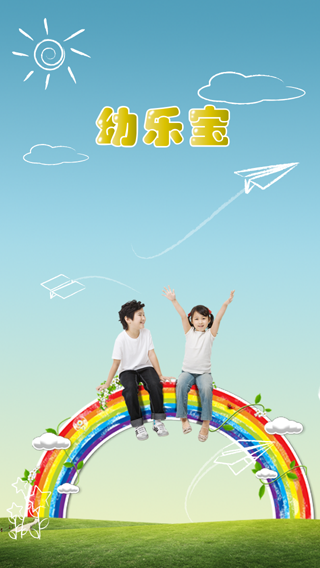
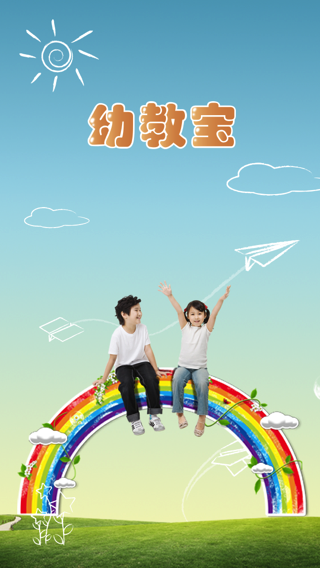
no message

diff --git a/YouJiaoBao/YouJiaoBao/Controller/CSContentEditorViewController.m b/YouJiaoBao/YouJiaoBao/Controller/CSContentEditorViewController.m
@@ -17,6 +17,8 @@
     NSInteger _lastDeleteItemIndexAsked;
 }
 
+@property (weak, nonatomic) IBOutlet UIView *viewTitle;
+@property (weak, nonatomic) IBOutlet UITextField *fieldTitle;
 @property (weak, nonatomic) IBOutlet UITextView *textContent;
 @property (weak, nonatomic) IBOutlet UIButton *btnHideKeyboard;
 @property (weak, nonatomic) IBOutlet UIButton *btnPhotoFromCamra;
@@ -25,6 +27,7 @@
 @property (weak, nonatomic) IBOutlet UICollectionView *collectionViewImages;
 @property (weak, nonatomic) IBOutlet UILabel *labTips;
 @property (weak, nonatomic) IBOutlet GMGridView *gmGridView;
+@property (weak, nonatomic) IBOutlet NSLayoutConstraint *layoutViewTitleHeight;
 - (IBAction)onBtnHideKeyboardClicked:(id)sender;
 - (IBAction)onBtnPhotoFromCamraClicked:(id)sender;
 - (IBAction)onBtnPhotoFromGalleryClicked:(id)sender;
@@ -34,6 +37,7 @@
 
 @implementation CSContentEditorViewController
 @synthesize delegate = _delegate;
+@synthesize hasTitle = _hasTitle;
 
 - (id)initWithNibName:(NSString *)nibNameOrNil bundle:(NSBundle *)nibBundleOrNil
 {
@@ -49,6 +53,11 @@
     [super viewDidLoad];
     // Do any additional setup after loading the view from its nib.
     [self customizeBackBarItem];
+    
+    if (!self.hasTitle) {
+        self.viewTitle.frame = CGRectZero;
+        self.viewTitle.clipsToBounds = YES;
+    }
     
     self.collectionViewImages.delegate = self;
     self.collectionViewImages.dataSource = self;

diff --git a/YouJiaoBao/YouJiaoBao/Controller/CSRootViewController.m b/YouJiaoBao/YouJiaoBao/Controller/CSRootViewController.m
@@ -12,6 +12,7 @@
 #import "CSHttpClient.h"
 
 @interface CSRootViewController ()
+@property (weak, nonatomic) IBOutlet UIImageView *imgBg;
 
 @end
 
@@ -30,6 +31,13 @@
 {
     [super viewDidLoad];
     // Do any additional setup after loading the view.
+    if (IS_IPHONE5) {
+        self.imgBg.image = [UIImage imageNamed:@"Default-568h.png"];
+    }
+    else {
+        self.imgBg.image = [UIImage imageNamed:@"Default.png"];
+    }
+    
     [[NSNotificationCenter defaultCenter] addObserver:self selector:@selector(onLoginSuccess:) name:kNotiLoginSuccess object:nil];
     
     [[NSNotificationCenter defaultCenter] addObserver:self selector:@selector(onUnauthorized:) name:kNotiUnauthorized object:nil];

diff --git a/YouJiaoBao/YouJiaoBao/Controller/CSContentEditorViewController.h b/YouJiaoBao/YouJiaoBao/Controller/CSContentEditorViewController.h
@@ -12,6 +12,8 @@
 
 @property (nonatomic, weak) id delegate;
 
+@property (nonatomic, assign) BOOL hasTitle;
+
 @end
 
 @protocol CSContentEditorViewControllerDelegate <NSObject>
